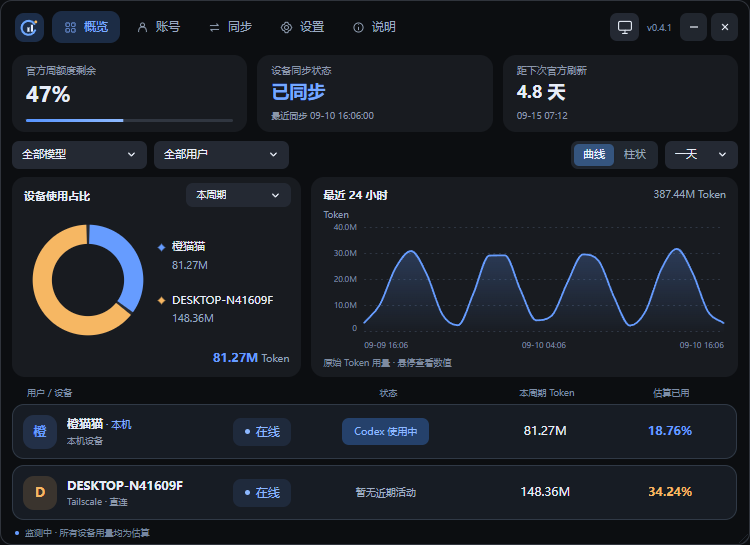
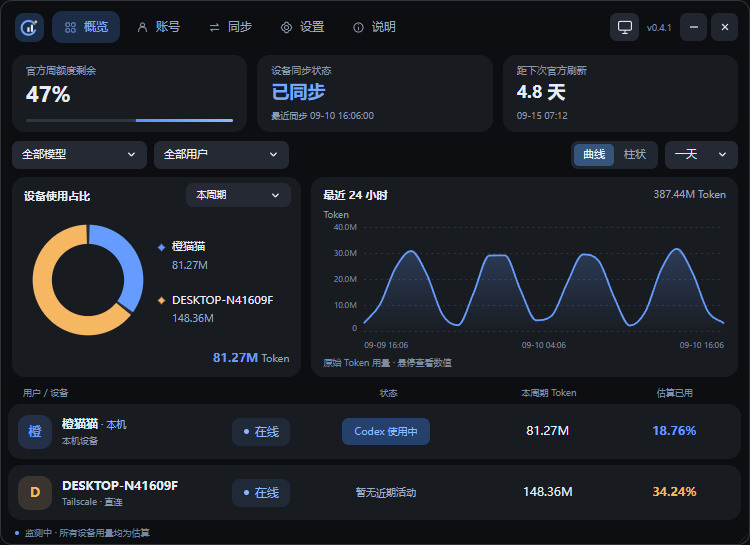
Finalize approved quota progress and device cards

diff --git a/frontend/src/style.css b/frontend/src/style.css
@@ -1,5 +1,5 @@
 :root{font-family:"Microsoft YaHei UI","Segoe UI",sans-serif;color:#e7edf7;background:#0c0e11;font-synthesis:none;font-size:12px;--muted:#8c98ab;--blue:#669cff;--panel:#181b20;--border:#2a313d;color-scheme:dark}*{box-sizing:border-box}html,body,#app{width:100%;height:100%;margin:0;overflow:hidden}body{user-select:none}button,input,textarea{font:inherit}button{color:inherit;background:#252a33;border:1px solid transparent;border-radius:8px;padding:7px 13px;cursor:pointer;outline:none;display:inline-flex;align-items:center;justify-content:center;gap:7px;line-height:1.35;transition:background-color .16s,border-color .16s,color .16s,transform .13s,box-shadow .16s}button:hover{background:#303744}button:active{transform:scale(.97)}button:focus-visible{box-shadow:0 0 0 2px #0c0e11,0 0 0 4px #669cff}button:disabled{opacity:.36;cursor:default;transform:none}button.primary{background:#397ae7;color:white}button.primary:hover{background:#4b8afa}button svg{width:15px;height:15px;fill:none;stroke:currentColor;stroke-width:1.4;stroke-linecap:round;stroke-linejoin:round;flex-shrink:0}input,textarea{width:100%;background:#101319;border:1px solid #303746;color:#edf2fb;border-radius:8px;padding:9px 11px;outline:none;transition:border-color .15s,box-shadow .15s;user-select:text}input:focus,textarea:focus{border-color:#669cff;box-shadow:0 0 0 2px #669cff18}input[type=checkbox]{width:16px;height:16px;accent-color:#669cff;margin:0;cursor:pointer}textarea{resize:vertical;min-height:85px}h1,h2,h3,p{margin:0}h1{font-size:21px;letter-spacing:.2px}h2{font-size:12px;font-weight:650}h3{font-size:12px;margin:17px 0 9px}p{line-height:1.7}small,.muted{color:var(--muted)}strong{font-weight:650}svg text{font-family:"Segoe UI","Microsoft YaHei UI",sans-serif}::selection{background:#397ae7;color:#fff}::-webkit-scrollbar{width:5px}::-webkit-scrollbar-thumb{background:#343c49;border-radius:8px}::-webkit-scrollbar-track{background:transparent}
-.app-shell{height:100%;display:flex;flex-direction:column;background:#0c0e11;border:1px solid #30343c;border-radius:12px;overflow:hidden;opacity:0;transform:translateY(5px);transition:opacity .22s ease,transform .22s ease}.app-shell.ready{opacity:1;transform:none}.titlebar{height:49px;flex:0 0 49px;display:flex;align-items:center;gap:12px;padding:8px 11px 5px 14px;touch-action:none}.app-logo{width:29px;height:29px;background:#1c2d48;border-radius:9px;padding:4px;flex:none}.app-logo svg{width:100%;height:100%;fill:none;stroke:#6da7ff;stroke-width:3;stroke-linecap:round}.app-logo rect{fill:#e4eeff;stroke:none}.app-logo circle{fill:#f5ba63;stroke:none}nav{display:flex;align-items:center;gap:4px}nav button{height:32px;padding:0 16px;background:transparent;color:#9baac0;border-radius:10px;position:relative}nav button.active{background:#1c2c45;color:#7dabff}nav button:hover{background:#1b2635}nav svg{width:13px;height:13px}.version{font-size:9px;color:#7487a5;margin-left:auto;white-space:nowrap}.window-buttons{display:flex;gap:4px}.window-buttons button{padding:0;width:27px;height:28px;border-radius:7px;background:#21262e}.window-buttons button:hover{background:#343d4c}.window-buttons .window-close:hover{background:#a43f50;color:white}.window-buttons svg{width:14px;height:14px}.resize-grip{position:absolute;bottom:2px;right:2px;width:12px;height:12px;cursor:nwse-resize;background:linear-gradient(135deg,transparent 60%,#465266 61%,transparent 65%,transparent 76%,#465266 77%,transparent 81%);opacity:.5}main{flex:1;min-height:0;position:relative;overflow:hidden}.page{height:100%;width:100%}.overview{padding:5px 11px 0;display:flex;flex-direction:column;gap:8px}.summary-grid{display:grid;grid-template-columns:1fr 1fr 1fr;gap:10px;flex:0 0 77px}.summary-card{height:77px;min-width:0;border-radius:13px;background:var(--panel);padding:10px 14px 9px;position:relative;display:flex;flex-direction:column;gap:4px}.eyebrow{font-size:10px;color:var(--muted);line-height:1.2}.summary-card>strong{font-family:"Segoe UI","Microsoft YaHei UI",sans-serif;font-size:22px;line-height:1.15;letter-spacing:.1px;font-variant-numeric:tabular-nums}.summary-card>strong.reset-time{font-size:18px}.summary-card.sync-card>strong{font-size:18px}.summary-card small{font-size:9px;line-height:1.3;margin-top:auto;white-space:nowrap}.summary-card.sync-card{padding-bottom:10px}.sync-ok{color:#75a8ff}.quota-progress{position:absolute;bottom:10px;left:14px;right:14px;height:3px;background:#303640;border-radius:4px;overflow:hidden}.quota-progress i{display:block;width:100%;height:100%;transform-origin:left;background:linear-gradient(90deg,#5794ff,#8ebaff);border-radius:4px;transition:transform .4s ease}.chart-controls{height:29px;flex:0 0 29px;display:flex;align-items:center;justify-content:space-between;gap:10px}.filters,.chart-modes{display:flex;align-items:center;gap:7px;min-width:0}.filters>.select{width:135px}.chart-modes>.select{width:73px}.select{position:relative;min-width:0}.select-trigger{height:28px;padding:0 9px;width:100%;justify-content:space-between;background:#242933;border-radius:7px;font-size:11px;white-space:nowrap}.select-trigger span{overflow:hidden;text-overflow:ellipsis;white-space:nowrap}.select-trigger svg{width:11px;height:11px;transition:transform .17s}.select-trigger.expanded{background:#2d3542;border-color:#45628b}.select-trigger.expanded svg{transform:rotate(180deg)}.select-menu{position:fixed;z-index:80;background:#20252e;border:1px solid #394453;border-radius:10px;padding:5px;overflow:auto;box-shadow:0 9px 35px #0008;outline:none;transform-origin:top center}.select-option{width:100%;height:33px;min-height:33px;justify-content:space-between;background:transparent;padding:0 10px;font-size:12px;border-radius:6px;white-space:nowrap}.select-option>span:first-child{overflow:hidden;text-overflow:ellipsis}.select-option.chosen{background:#263d61;color:#9cc1ff}.select-option.focused{background:#303b4c}.select-option .check{font-size:12px;color:#82afff}.segment{display:flex;align-items:center;border-radius:7px;background:#212730;padding:3px;gap:1px;flex:none;height:28px}.segment button{border-radius:5px;background:transparent;height:22px;min-width:37px;padding:0 8px;font-size:11px;color:#9aa7ba}.segment button.active{background:#35557f;color:#eaf3ff;box-shadow:0 1px 3px #0002}.segment button:not(.active):hover{background:#303a48}.charts-grid{display:grid;grid-template-columns:minmax(265px, .95fr) minmax(350px,1.4fr);gap:10px;flex:0 0 200px;min-height:200px;max-height:200px}.chart-card{min-width:0;position:relative;background:var(--panel);border-radius:13px;padding:11px 12px 8px;overflow:hidden}.chart-card h2{font-size:11px;line-height:14px;display:flex;justify-content:space-between;gap:5px}.chart-card h2 span{font-size:10px;color:#9ba9be;font-weight:400;font-variant-numeric:tabular-nums}.donut-card{padding-right:10px}.donut-content{height:calc(100% - 16px);display:flex;align-items:center;position:relative;padding-bottom:18px;padding-top:5px;gap:7px}.donut-svg{flex:0 0 128px;width:128px;height:128px;overflow:visible}.donut-piece{transition:transform .17s ease;transform-origin:center}.donut-piece circle{outline:none;cursor:default}.donut-piece circle:focus-visible{filter:brightness(1.15)}.donut-legend{flex:1;min-width:0;display:flex;flex-direction:column;gap:22px;margin-top:4px;padding-right:1px}.legend-row{display:grid;grid-template-columns:6px 1fr;column-gap:7px;row-gap:3px;min-width:0}.legend-dot{width:5px;height:5px;transform:rotate(45deg);border-radius:1px;align-self:center}.legend-name{font-size:11px;white-space:nowrap;overflow:hidden;text-overflow:ellipsis;line-height:1.4}.legend-value{grid-column:2;color:#9aaac1;font-size:11px;font-family:"Segoe UI",sans-serif;font-variant-numeric:tabular-nums;line-height:1.2}.donut-tooltip{position:absolute;right:2px;bottom:0;text-align:right;font-size:10px;color:#94a4bb;line-height:21px;pointer-events:none;white-space:nowrap}.donut-tooltip span{font-size:12px;font-weight:600}.pie-period{position:absolute;right:10px;top:6px;width:105px}.donut-card h2{padding-right:112px;min-height:16px;align-items:center}.pie-period .select-trigger{height:24px;font-size:10px;padding-left:9px}.trend-card{display:flex;flex-direction:column}.trend-plot{position:relative;flex:1;margin-top:8px;min-height:125px;padding-top:11px}.axis-unit{position:absolute;left:0;top:-1px;color:#8c9bb2;font-size:9px;line-height:11px}.trend-svg{display:block;width:100%;height:100%;overflow:visible}.axis-text{fill:#8292aa;font-size:9px;font-variant-numeric:tabular-nums}.grid-line{stroke:#374151;stroke-dasharray:2 4;stroke-width:.8}.trend-line{fill:none;stroke-width:1.8;stroke-linecap:round;stroke-linejoin:round;vector-effect:non-scaling-stroke;pointer-events:none}.trend-svg path{pointer-events:none}.chart-bar{opacity:.8;transition:opacity .17s,filter .17s}.chart-bar.lit{opacity:1;filter:brightness(1.15)}.hover-band{fill:#669cff11;pointer-events:none;transition:x .1s ease}.chart-hover{pointer-events:none;transition:transform .1s cubic-bezier(.2,.7,.3,1)}.hover-line{stroke:#6e8db257;stroke-width:.8;stroke-dasharray:2 3}.chart-tooltip{position:absolute;top:13px;transform:translateX(-50%);z-index:2;background:#101722ed;border:1px solid #34445b;border-radius:7px;padding:6px 9px;pointer-events:none;display:flex;flex-direction:column;gap:3px;white-space:nowrap;box-shadow:0 3px 12px #0004}.chart-tooltip strong{font-size:11px;color:#cce0ff}.chart-tooltip span{font-size:9px;color:#92a4bd}.chart-footnote{font-size:9px;line-height:12px;color:#7e8ba0;padding-top:6px;white-space:nowrap}.device-heading{height:22px;flex:0 0 22px;display:flex;align-items:center;justify-content:space-between}.device-heading h2{font-size:11px}.device-actions{display:flex;align-items:center;gap:4px}.device-actions button{padding:3px 8px;font-size:10px;background:transparent;height:22px;color:#91a5c3}.device-actions button:hover{background:#242e3d}.device-actions svg{width:12px;height:12px}.devices-table{flex:0 0 auto;min-height:0}.device-columns,.device-row{display:grid;grid-template-columns:minmax(205px,1.55fr) minmax(130px,1fr) minmax(100px,.75fr) minmax(85px,.6fr);gap:8px;align-items:center}.device-columns{padding:0 15px 5px;height:19px;font-size:9px;color:#7d8ea8}.device-columns>span:nth-child(n+2){text-align:center}.device-list{display:flex;flex-direction:column;gap:6px;max-height:180px;overflow:auto;padding-right:1px}.device-row{width:100%;height:55px;min-height:55px;border:1px solid #303946;border-radius:12px;padding:7px 14px 7px 10px;background:#171c24;text-align:left;flex-shrink:0;transition:background-color .17s,border-color .17s,box-shadow .17s;transform:none}.device-row:hover{background:#1d2633;border-color:#43546c}.device-row.selected{background:#1d2d46;border-color:#597eaf;box-shadow:inset 0 0 0 1px #669cff0c}.device-name{display:flex;align-items:center;gap:10px;overflow:hidden}.avatar{display:flex;width:34px;height:34px;align-items:center;justify-content:center;flex:none;border-radius:11px;background:color-mix(in srgb,var(--device-color) 16%,#161b24);color:var(--device-color);font-size:13px;font-weight:650}.device-label{display:flex;min-width:0;flex-direction:column;gap:3px}.device-label strong{font-size:12px;line-height:15px;white-space:nowrap;overflow:hidden;text-overflow:ellipsis}.device-label em{font-size:10px;color:#86b2ff;font-style:normal;font-weight:400}.device-label small{font-size:9px;line-height:12px;overflow:hidden;text-overflow:ellipsis;white-space:nowrap}.device-state{font-size:10px;color:#a0afc5;text-align:center;line-height:27px;border-radius:7px;overflow:hidden;text-overflow:ellipsis;white-space:nowrap}.device-state.using{background:#25416b;color:#8fbaff}.device-tokens{text-align:center;font-size:12px;font-variant-numeric:tabular-nums}.device-usage{text-align:center;font-size:12px;color:var(--device-color);font-variant-numeric:tabular-nums}.empty-state{padding:25px;text-align:center;color:#8e9bb0}.status-line{display:flex;align-items:center;gap:6px;height:16px;flex:0 0 16px;font-size:9px;color:#75869f;overflow:hidden;margin-top:-2px;padding:0 3px 3px}.status-line>span:last-child{white-space:nowrap;overflow:hidden;text-overflow:ellipsis}.status-dot{width:4px;height:4px;border-radius:50%;background:#669cff;flex:none}.status-dot.error{background:#f0a374}
+.app-shell{height:100%;display:flex;flex-direction:column;background:#0c0e11;border:1px solid #30343c;border-radius:12px;overflow:hidden;opacity:0;transform:translateY(5px);transition:opacity .22s ease,transform .22s ease}.app-shell.ready{opacity:1;transform:none}.titlebar{height:49px;flex:0 0 49px;display:flex;align-items:center;gap:12px;padding:8px 11px 5px 14px;touch-action:none}.app-logo{width:29px;height:29px;background:#1c2d48;border-radius:9px;padding:4px;flex:none}.app-logo svg{width:100%;height:100%;fill:none;stroke:#6da7ff;stroke-width:3;stroke-linecap:round}.app-logo rect{fill:#e4eeff;stroke:none}.app-logo circle{fill:#f5ba63;stroke:none}nav{display:flex;align-items:center;gap:4px}nav button{height:32px;padding:0 16px;background:transparent;color:#9baac0;border-radius:10px;position:relative}nav button.active{background:#1c2c45;color:#7dabff}nav button:hover{background:#1b2635}nav svg{width:13px;height:13px}.version{font-size:9px;color:#7487a5;margin-left:auto;white-space:nowrap}.window-buttons{display:flex;gap:4px}.window-buttons button{padding:0;width:27px;height:28px;border-radius:7px;background:#21262e}.window-buttons button:hover{background:#343d4c}.window-buttons .window-close:hover{background:#a43f50;color:white}.window-buttons svg{width:14px;height:14px}.resize-grip{position:absolute;bottom:2px;right:2px;width:12px;height:12px;cursor:nwse-resize;background:linear-gradient(135deg,transparent 60%,#465266 61%,transparent 65%,transparent 76%,#465266 77%,transparent 81%);opacity:.5}main{flex:1;min-height:0;position:relative;overflow:hidden}.page{height:100%;width:100%}.overview{padding:5px 11px 0;display:flex;flex-direction:column;gap:8px}.summary-grid{display:grid;grid-template-columns:1fr 1fr 1fr;gap:10px;flex:0 0 77px}.summary-card{height:77px;min-width:0;border-radius:13px;background:var(--panel);padding:10px 14px 9px;position:relative;display:flex;flex-direction:column;gap:4px}.eyebrow{font-size:10px;color:var(--muted);line-height:1.2}.summary-card>strong{font-family:"Segoe UI","Microsoft YaHei UI",sans-serif;font-size:22px;line-height:1.15;letter-spacing:.1px;font-variant-numeric:tabular-nums}.summary-card>strong.reset-time{font-size:18px}.summary-card.sync-card>strong{font-size:18px}.summary-card small{font-size:9px;line-height:1.3;margin-top:auto;white-space:nowrap}.summary-card.sync-card{padding-bottom:10px}.sync-ok{color:#75a8ff}.quota-progress{position:absolute;bottom:10px;left:14px;right:14px;height:3px;background:#303640;border-radius:4px;overflow:hidden}.quota-progress i{display:block;width:100%;height:100%;transform-origin:right;background:linear-gradient(90deg,#5794ff,#8ebaff);border-radius:4px;transition:transform .4s ease}.chart-controls{height:29px;flex:0 0 29px;display:flex;align-items:center;justify-content:space-between;gap:10px}.filters,.chart-modes{display:flex;align-items:center;gap:7px;min-width:0}.filters>.select{width:135px}.chart-modes>.select{width:73px}.select{position:relative;min-width:0}.select-trigger{height:28px;padding:0 9px;width:100%;justify-content:space-between;background:#242933;border-radius:7px;font-size:11px;white-space:nowrap}.select-trigger span{overflow:hidden;text-overflow:ellipsis;white-space:nowrap}.select-trigger svg{width:11px;height:11px;transition:transform .17s}.select-trigger.expanded{background:#2d3542;border-color:#45628b}.select-trigger.expanded svg{transform:rotate(180deg)}.select-menu{position:fixed;z-index:80;background:#20252e;border:1px solid #394453;border-radius:10px;padding:5px;overflow:auto;box-shadow:0 9px 35px #0008;outline:none;transform-origin:top center}.select-option{width:100%;height:33px;min-height:33px;justify-content:space-between;background:transparent;padding:0 10px;font-size:12px;border-radius:6px;white-space:nowrap}.select-option>span:first-child{overflow:hidden;text-overflow:ellipsis}.select-option.chosen{background:#263d61;color:#9cc1ff}.select-option.focused{background:#303b4c}.select-option .check{font-size:12px;color:#82afff}.segment{display:flex;align-items:center;border-radius:7px;background:#212730;padding:3px;gap:1px;flex:none;height:28px}.segment button{border-radius:5px;background:transparent;height:22px;min-width:37px;padding:0 8px;font-size:11px;color:#9aa7ba}.segment button.active{background:#35557f;color:#eaf3ff;box-shadow:0 1px 3px #0002}.segment button:not(.active):hover{background:#303a48}.charts-grid{display:grid;grid-template-columns:minmax(265px, .95fr) minmax(350px,1.4fr);gap:10px;flex:0 0 200px;min-height:200px;max-height:200px}.chart-card{min-width:0;position:relative;background:var(--panel);border-radius:13px;padding:11px 12px 8px;overflow:hidden}.chart-card h2{font-size:11px;line-height:14px;display:flex;justify-content:space-between;gap:5px}.chart-card h2 span{font-size:10px;color:#9ba9be;font-weight:400;font-variant-numeric:tabular-nums}.donut-card{padding-right:10px}.donut-content{height:calc(100% - 16px);display:flex;align-items:center;position:relative;padding-bottom:18px;padding-top:5px;gap:7px}.donut-svg{flex:0 0 128px;width:128px;height:128px;overflow:visible}.donut-piece{transition:transform .17s ease;transform-origin:center}.donut-piece circle{outline:none;cursor:default}.donut-piece circle:focus-visible{filter:brightness(1.15)}.donut-legend{flex:1;min-width:0;display:flex;flex-direction:column;gap:22px;margin-top:4px;padding-right:1px}.legend-row{display:grid;grid-template-columns:6px 1fr;column-gap:7px;row-gap:3px;min-width:0}.legend-dot{width:5px;height:5px;transform:rotate(45deg);border-radius:1px;align-self:center}.legend-name{font-size:11px;white-space:nowrap;overflow:hidden;text-overflow:ellipsis;line-height:1.4}.legend-value{grid-column:2;color:#9aaac1;font-size:11px;font-family:"Segoe UI",sans-serif;font-variant-numeric:tabular-nums;line-height:1.2}.donut-tooltip{position:absolute;right:2px;bottom:0;text-align:right;font-size:10px;color:#94a4bb;line-height:21px;pointer-events:none;white-space:nowrap}.donut-tooltip span{font-size:12px;font-weight:600}.pie-period{position:absolute;right:10px;top:6px;width:105px}.donut-card h2{padding-right:112px;min-height:16px;align-items:center}.pie-period .select-trigger{height:24px;font-size:10px;padding-left:9px}.trend-card{display:flex;flex-direction:column}.trend-plot{position:relative;flex:1;margin-top:8px;min-height:125px;padding-top:11px}.axis-unit{position:absolute;left:0;top:-1px;color:#8c9bb2;font-size:9px;line-height:11px}.trend-svg{display:block;width:100%;height:100%;overflow:visible}.axis-text{fill:#8292aa;font-size:9px;font-variant-numeric:tabular-nums}.grid-line{stroke:#374151;stroke-dasharray:2 4;stroke-width:.8}.trend-line{fill:none;stroke-width:1.8;stroke-linecap:round;stroke-linejoin:round;vector-effect:non-scaling-stroke;pointer-events:none}.trend-svg path{pointer-events:none}.chart-bar{opacity:.8;transition:opacity .17s,filter .17s}.chart-bar.lit{opacity:1;filter:brightness(1.15)}.hover-band{fill:#669cff11;pointer-events:none;transition:x .1s ease}.chart-hover{pointer-events:none;transition:transform .1s cubic-bezier(.2,.7,.3,1)}.hover-line{stroke:#6e8db257;stroke-width:.8;stroke-dasharray:2 3}.chart-tooltip{position:absolute;top:13px;transform:translateX(-50%);z-index:2;background:#101722ed;border:1px solid #34445b;border-radius:7px;padding:6px 9px;pointer-events:none;display:flex;flex-direction:column;gap:3px;white-space:nowrap;box-shadow:0 3px 12px #0004}.chart-tooltip strong{font-size:11px;color:#cce0ff}.chart-tooltip span{font-size:9px;color:#92a4bd}.chart-footnote{font-size:9px;line-height:12px;color:#7e8ba0;padding-top:6px;white-space:nowrap}.device-heading{height:22px;flex:0 0 22px;display:flex;align-items:center;justify-content:space-between}.device-heading h2{font-size:11px}.device-actions{display:flex;align-items:center;gap:4px}.device-actions button{padding:3px 8px;font-size:10px;background:transparent;height:22px;color:#91a5c3}.device-actions button:hover{background:#242e3d}.device-actions svg{width:12px;height:12px}.devices-table{flex:0 0 auto;min-height:0;margin-inline:-4px}.device-columns,.device-row{display:grid;grid-template-columns:minmax(205px,1.55fr) minmax(130px,1fr) minmax(100px,.75fr) minmax(85px,.6fr);gap:8px;align-items:center}.device-columns{padding:0 15px 5px;height:19px;font-size:9px;color:#7d8ea8}.device-columns>span:nth-child(n+2){text-align:center}.device-list{display:flex;flex-direction:column;gap:6px;max-height:180px;overflow:auto;padding-right:1px}.device-row{width:100%;height:55px;min-height:55px;border:0;border-radius:13px;padding:7px 14px 7px 10px;background:var(--panel);text-align:left;flex-shrink:0;transition:background-color .17s,border-color .17s,box-shadow .17s;transform:none}.device-row:hover{background:#20252d}.device-row.selected{background:#1d2d46;border-color:#597eaf;box-shadow:none}.device-name{display:flex;align-items:center;gap:10px;overflow:hidden}.avatar{display:flex;width:34px;height:34px;align-items:center;justify-content:center;flex:none;border-radius:11px;background:color-mix(in srgb,var(--device-color) 16%,#161b24);color:var(--device-color);font-size:13px;font-weight:650}.device-label{display:flex;min-width:0;flex-direction:column;gap:3px}.device-label strong{font-size:12px;line-height:15px;white-space:nowrap;overflow:hidden;text-overflow:ellipsis}.device-label em{font-size:10px;color:#86b2ff;font-style:normal;font-weight:400}.device-label small{font-size:9px;line-height:12px;overflow:hidden;text-overflow:ellipsis;white-space:nowrap}.device-state{font-size:10px;color:#a0afc5;text-align:center;line-height:27px;border-radius:7px;overflow:hidden;text-overflow:ellipsis;white-space:nowrap}.device-state.using{background:#25416b;color:#8fbaff}.device-tokens{text-align:center;font-size:12px;font-variant-numeric:tabular-nums}.device-usage{text-align:center;font-size:12px;color:var(--device-color);font-variant-numeric:tabular-nums}.empty-state{padding:25px;text-align:center;color:#8e9bb0}.status-line{display:flex;align-items:center;gap:6px;height:16px;flex:0 0 16px;font-size:9px;color:#75869f;overflow:hidden;margin-top:-2px;padding:0 3px 3px}.status-line>span:last-child{white-space:nowrap;overflow:hidden;text-overflow:ellipsis}.status-dot{width:4px;height:4px;border-radius:50%;background:#669cff;flex:none}.status-dot.error{background:#f0a374}
 .scroll-page{overflow-y:auto;padding:9px 15px 22px}.page-heading{display:flex;align-items:center;justify-content:space-between;margin:4px 0 18px}.page-heading>span{font-size:11px;color:var(--muted)}.panel{background:var(--panel);border-radius:13px;padding:17px;margin-bottom:12px}.panel h2{font-size:14px;margin-bottom:9px}.panel p{margin:5px 0}.panel .actions{margin-top:14px}.compact-panel p{font-size:11px}.identity{font-size:16px;color:#85b1fc}.tag{font-size:10px;color:#bccae1;border:1px solid #3c475b;border-radius:5px;padding:2px 5px;margin-left:6px}.actions{display:flex;gap:8px;flex-wrap:wrap;align-items:center}.actions button{font-size:11px}.push-right{margin-left:auto}.help-text{font-size:10px;color:#8592a7;line-height:1.9;margin:12px 2px}.account-item{display:flex;width:100%;justify-content:space-between;background:#11161e;border:1px solid #293344;border-radius:9px;padding:12px;margin-bottom:7px;text-align:left}.account-item.selected,.program-list button.selected{background:#1e3452;border-color:#597ba8}.account-item small{font-size:10px}.connection-summary{display:flex;justify-content:space-between;align-items:center}.connection-summary h2{margin:6px 0 0;color:#8ab5ff}.pair-grid{display:grid;grid-template-columns:1fr 1fr;gap:12px}.pair-grid .panel{display:flex;flex-direction:column;align-items:flex-start}.pair-grid p{font-size:11px;margin-bottom:16px}.pair-grid button{margin-top:auto}.step-number{color:#78a8ff;font-size:22px;font-weight:650;margin-bottom:9px;font-family:"Segoe UI",sans-serif}.sync-peer,.paired-device{display:flex;justify-content:space-between;align-items:center;background:#111720;border-radius:8px;padding:10px 12px;margin:6px 0}.sync-peer{font-size:11px}.sync-peer>span{color:#96aed0}.paired-device small{display:block;margin-top:5px}.paired-device button{font-size:10px}.break-text{overflow-wrap:anywhere}.advanced-panel{margin-top:12px}.advanced-panel label{display:block;font-size:11px;color:#9aa9bf;margin-bottom:12px}.advanced-panel input{margin-top:6px}.check-row{display:flex!important;align-items:center;gap:9px;font-size:11px;margin:13px 0;color:#b9c6d9}.check-row input{margin:0!important;flex:none}.settings-line{display:flex;align-items:center;justify-content:space-between;gap:20px}.settings-line+.settings-line{margin-top:14px;padding-top:13px;border-top:1px solid #2b333e}.settings-line h2{margin-bottom:5px}.settings-line>.select{width:170px;flex:none}.settings-line p{font-size:10px}.toggle{width:37px;height:22px;border-radius:14px;background:#343e4d;padding:2px;position:relative;flex:none}.toggle i{position:absolute;width:16px;height:16px;left:2px;background:#bcc8db;border-radius:50%;transition:transform .17s,background .17s}.toggle.on{background:#357ce9}.toggle.on i{transform:translateX(14px);background:#fff}.notice-inline{color:#f5ba63;font-size:11px}.form-grid{display:grid;grid-template-columns:1fr 1fr;gap:13px}.form-grid label{display:flex;flex-direction:column;gap:7px;font-size:11px;color:#9daec7}.span-two{grid-column:span 2}.program-list{background:#11161d;padding:5px;border-radius:9px;min-height:40px;max-height:150px;overflow:auto}.program-list button{display:block;text-align:left;white-space:nowrap;width:100%;font:10px Consolas,monospace;background:transparent;border:1px solid transparent;padding:8px;overflow:hidden;text-overflow:ellipsis}.program-list>p{padding:5px 8px;font-size:11px}.prose h2:not(:first-child){margin-top:22px}.prose p{font-size:12px;color:#a9b8cd;line-height:1.85;margin:8px 0}.toast{position:fixed;z-index:120;bottom:21px;left:50%;transform:translateX(-50%);max-width:85%;padding:10px 16px;color:#dceaff;background:#233751;border:1px solid #42658e;border-radius:10px;box-shadow:0 5px 25px #0007;font-size:12px;pointer-events:none}.modal-backdrop{position:fixed;inset:0;background:#03060b9e;z-index:90;display:flex;align-items:center;justify-content:center;padding:25px}.modal{width:390px;max-width:100%;max-height:100%;overflow-y:auto;border-radius:16px;background:#1b222d;border:1px solid #3b495e;box-shadow:0 18px 70px #0008;padding:22px;position:relative}.modal h2{font-size:17px;padding-right:22px;margin-bottom:13px}.modal p{font-size:12px;line-height:1.85;margin:8px 0 16px;color:#b5c3d8}.modal-close{position:absolute;top:10px;right:10px;border-radius:7px;background:transparent;width:26px;height:26px;padding:0;font:20px "Segoe UI",sans-serif;color:#8d9fb9}.modal-actions{display:flex;justify-content:flex-end;gap:8px;margin-top:20px}.modal-actions button{min-width:68px}.palette{display:grid;grid-template-columns:repeat(4,1fr);gap:13px 10px;margin:18px 0 6px}.palette button{display:flex;flex-direction:column;gap:9px;padding:10px 2px;background:#131a24;color:#a5b6d0;font-size:10px}.palette button>span{display:flex;align-items:center;justify-content:center;width:29px;height:29px;border-radius:50%;background:var(--swatch);color:#101824;font-size:17px}.palette button.chosen{border-color:var(--swatch);background:#263346}.palette button:hover{transform:translateY(-2px)}.cap-input{display:flex;align-items:center;gap:12px}.cap-input input{font-size:22px}.cap-input>span{font-size:19px;color:#9ab5dc}.pair-code{font-size:10px;line-height:1.7;font-family:Consolas,monospace;overflow-wrap:anywhere}.waiting{padding:25px 0;display:flex;align-items:center;justify-content:center;gap:10px;color:#96b5e6}.spinner{display:inline-block;width:15px;height:15px;border:2px solid #669cff33;border-top-color:#669cff;border-radius:50%;animation:spin .8s linear infinite}.wide-modal{width:590px}.history-summary{display:flex;align-items:center;justify-content:space-between;margin:12px 0;padding:12px;background:#111925;border-radius:8px;color:#a4c3f5}.history-device{display:grid;grid-template-columns:1.4fr 1fr .6fr;gap:12px;font-size:11px;padding:8px 3px}.history-device span:nth-child(n+2){text-align:right}.history-period{width:max-content;margin:15px 0 10px}.history-list{max-height:170px;overflow:auto;background:#111720;border-radius:8px;padding:5px 12px}.history-list>div{display:flex;justify-content:space-between;padding:8px 0;font-size:11px;border-bottom:1px solid #26303e}.history-list>div:last-child{border-bottom:0}.menu-enter-active,.menu-leave-active{transition:opacity .14s,transform .14s}.menu-enter-from,.menu-leave-to{opacity:0;transform:translateY(-4px) scale(.98)}.page-enter-active,.page-leave-active{transition:opacity .14s ease,transform .14s ease}.page-enter-from{opacity:0;transform:translateX(10px)}.page-leave-to{opacity:0;transform:translateX(-7px)}.tip-enter-active,.tip-leave-active{transition:opacity .13s}.tip-enter-from,.tip-leave-to{opacity:0}.toast-enter-active,.toast-leave-active{transition:opacity .18s,translate .18s}.toast-enter-from,.toast-leave-to{opacity:0;translate:0 7px}.modal-enter-active,.modal-leave-active{transition:opacity .18s}.modal-enter-active .modal,.modal-leave-active .modal{transition:transform .2s ease,opacity .2s ease}.modal-enter-from,.modal-leave-to{opacity:0}.modal-enter-from .modal,.modal-leave-to .modal{transform:translateY(8px) scale(.975);opacity:0}.expand-enter-active,.expand-leave-active{transition:opacity .17s,transform .17s}.expand-enter-from,.expand-leave-to{opacity:0;transform:translateY(-5px)}@keyframes spin{to{transform:rotate(360deg)}}@media (min-height:650px){.charts-grid{max-height:330px}.device-list{max-height:250px}}@media(prefers-reduced-motion:reduce){*,*::before,*::after{transition-duration:.01ms!important;animation-duration:.01ms!important}}
 
 .device-row{touch-action:none}.device-row:active{transform:none}.device-list.reordering,.device-list.reordering .device-row{cursor:grabbing}.device-row.dragging{opacity:.65;border-color:#8bb5ed;box-shadow:0 3px 12px #0005}.device-shift-move{transition:transform .15s ease}.user-note-label{display:flex;flex-direction:column;gap:8px;color:#a9b9d0;font-size:11px}.settings-users{display:flex;flex-direction:column;gap:7px}.settings-user{justify-content:flex-start;background:#121922;padding:11px 12px;border-radius:10px;text-align:left;gap:11px}.settings-user>span:nth-child(2){flex:1}.settings-user strong{display:block;font-size:12px}.settings-user small{display:block;font-size:10px;margin-top:4px}.settings-user>svg{width:13px;height:13px;color:#8092ae}

diff --git a/frontend/src/app.js b/frontend/src/app.js
@@ -155,7 +155,7 @@ const app=createApp({
     async function saveConnection(){const payload={force_relay:connectionForm.force_relay};for(const key of ['rendezvous_url','relay_token','stun_url'])if(connectionForm[key].trim())payload[key]=connectionForm[key].trim();await command('connection_save',payload,'连接设置已保存');}
     async function exportDiagnostics(){await host('export_diagnostics');}
     function hostQuit(){if(view.value.blocked)modal.value={type:'quit'};else host('quit');}
-    watch(()=>modal.value,()=>{if(!modal.value){clearTimeout(pairTimer);pairPending.value=false;}});
+    watch(()=>modal.value,(current,previous)=>{if(previous?.type==='user'&&current?.type!=='user')selectedDevice.value='';if(!modal.value){clearTimeout(pairTimer);pairPending.value=false;}});
     onMounted(()=>{poll();window.addEventListener('host-quit',hostQuit);window.addEventListener('pointermove',moveDeviceDrag);window.addEventListener('pointerup',endDeviceDrag);window.addEventListener('pointercancel',cancelDeviceDrag);window.addEventListener('blur',cancelDeviceDrag);window.addEventListener('keydown',e=>{if(e.key==='Escape'){modal.value=null;cancelDeviceDrag();}});});
     onBeforeUnmount(()=>{systemTheme.removeEventListener('change',updateSystemTheme);disposed=true;clearTimeout(pollTimer);clearTimeout(toastTimer);clearTimeout(pairTimer);window.removeEventListener('host-quit',hostQuit);window.removeEventListener('pointermove',moveDeviceDrag);window.removeEventListener('pointerup',endDeviceDrag);window.removeEventListener('pointercancel',cancelDeviceDrag);window.removeEventListener('blur',cancelDeviceDrag);});
     if(testMode)window.__CQG_TEST__={applySnapshot,getState:()=>({page:page.value,selectedDevice:selectedDevice.value,user:user.value,model:model.value,pie:pie.value,trend:trend.value})};

diff --git a/VALIDATION.md b/VALIDATION.md
@@ -11,6 +11,8 @@
 
 - 最终试用修订：实际冻结窗口客户区 750×545；小时图表 30 个两分钟区间、心跳在线红蓝标签、饼图留缝及默认本机 Token、主题图标三态切换与系统动态跟随均通过验证。主题设置保存不重启监控。
 
+- 最后界面修订已获用户试用确认：剩余额度进度条右对齐，退出用户设置清除选中框；设备卡片加宽并去除描边。完整前端回归、冻结内容一致性及实际窗口启动检查通过。
+
 ---
 
 # Codex 配额管家 0.4.0 WebView2 本地试用验证（2026-09-10）
